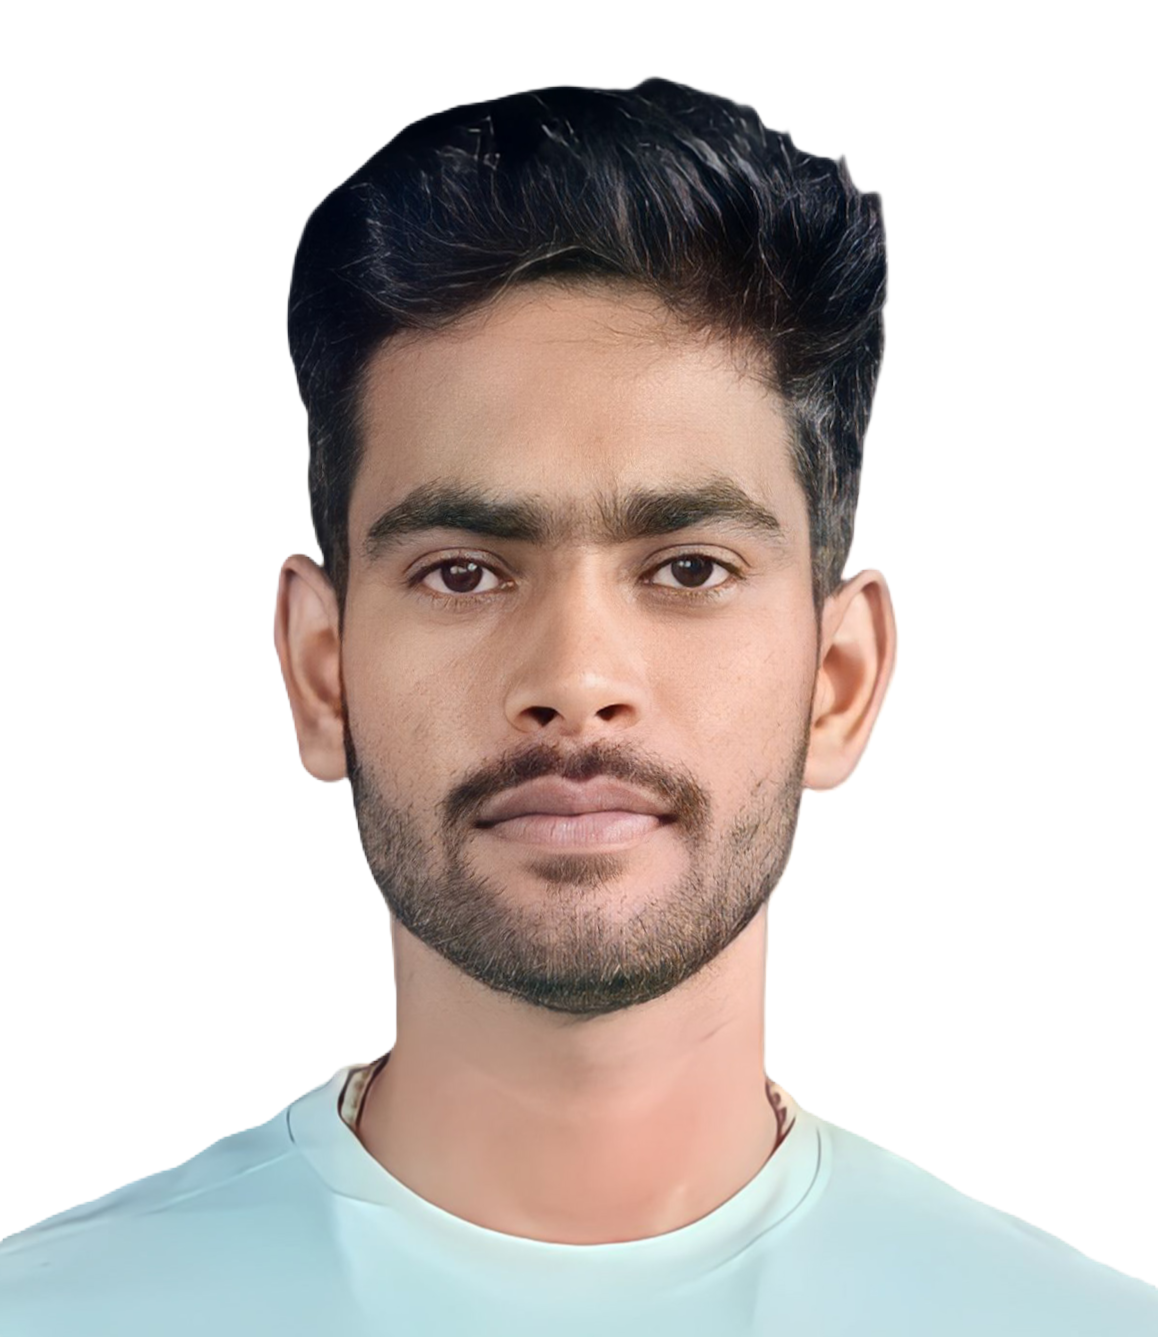
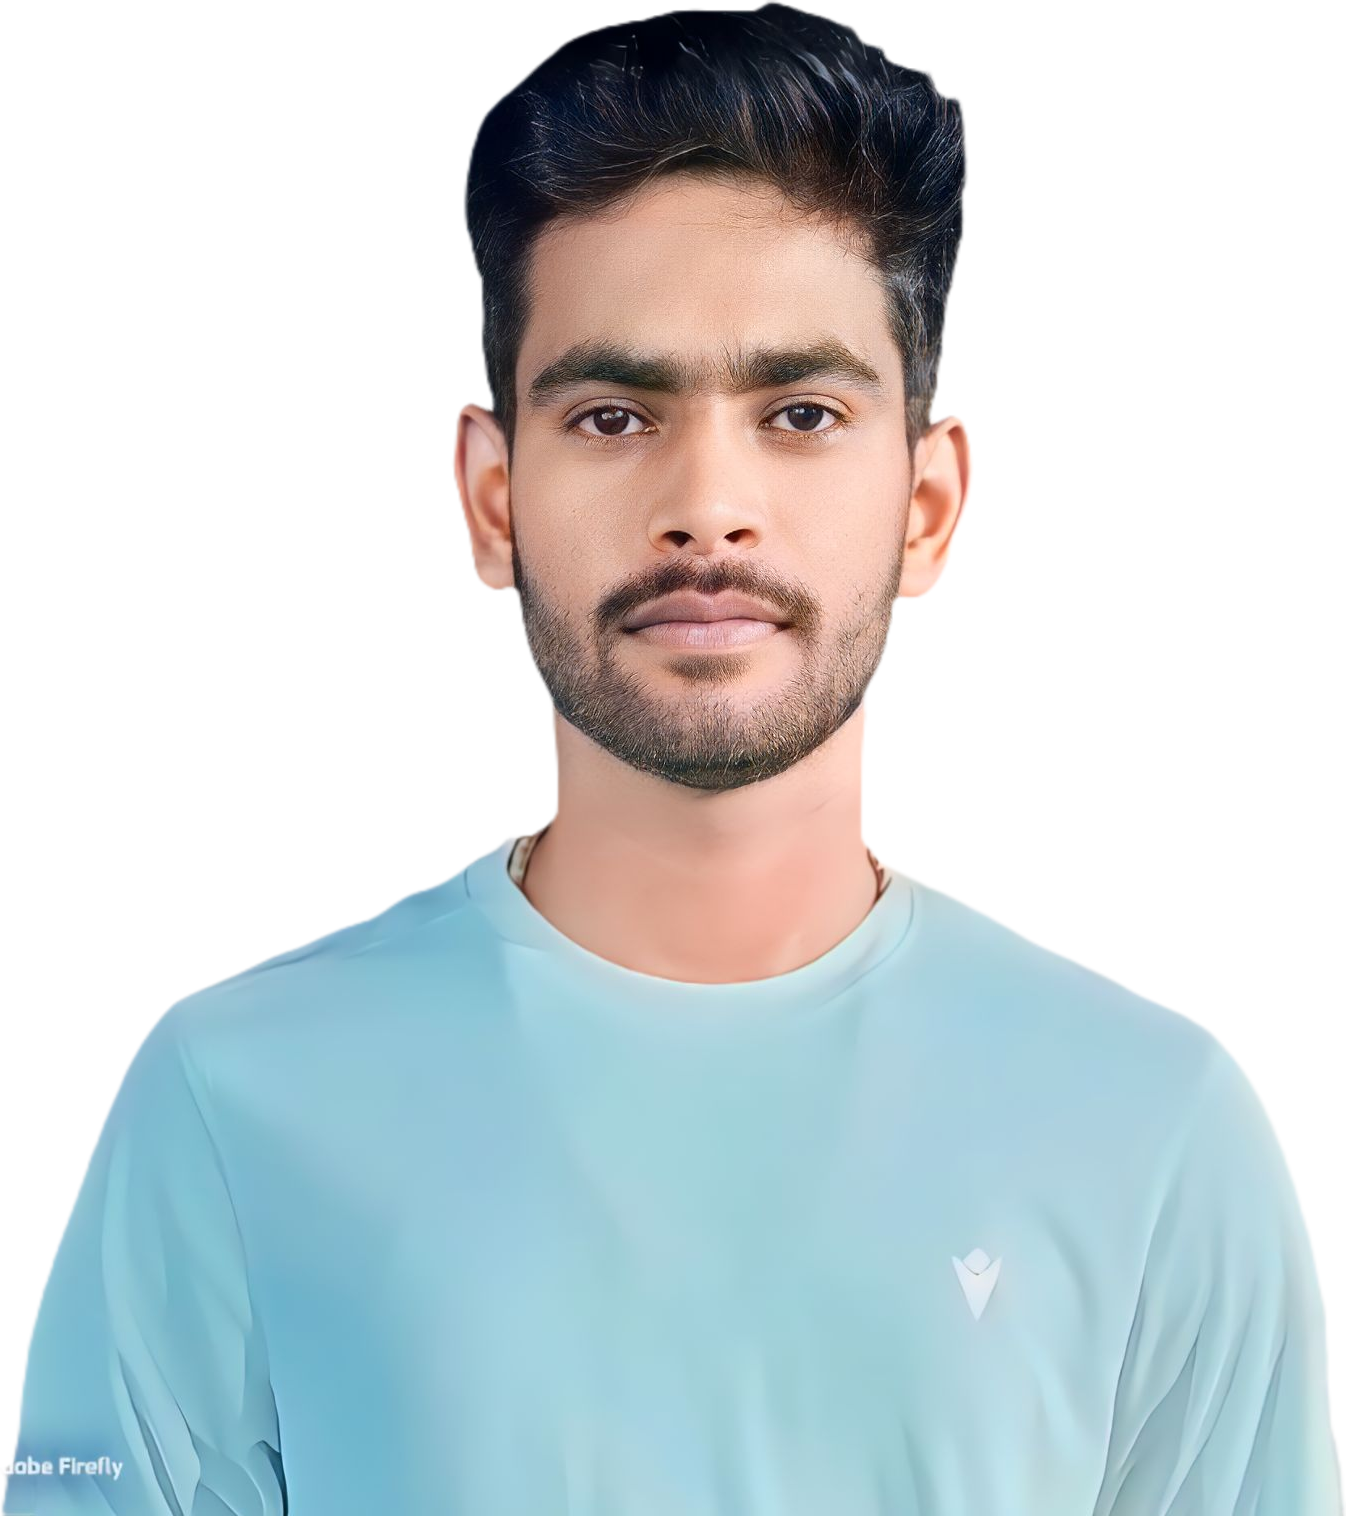
1.2.2

diff --git a/index.html b/index.html
@@ -49,6 +49,8 @@
               <button>Resume <i class="ri-file-download-line"></i></button>
             </a>
           </div>
+          <div class="img-box">
+            <img src="asset/Abhi.png" alt=""></div>
           <div class="socials">
             <div class="line"></div>
             <a href="https://www.linkedin.com/in/abhishek-g-996b40217/" aria-label="LinkedIn Profile">
@@ -142,49 +144,10 @@
       </section>
       <section class="portfolio" id="portfolio">
         <h1>Portfolio</h1>
-        <div class="portfolio-cards">
+        <div class="portfolio-cards">        
+          
           <div class="portfolio-card reveal">
-            <img src="asset/project1.png" alt="Project 1 Screenshot" />
-            <div class="overlay">
-              <h3>Portfolio</h3>
-              <p>Don't Need to go anywhere you are already here!</p>
-              <a href="Github" target="_blank" aria-label="View GitHub Repository">
-                Github <i class="ri-arrow-right-line"></i>
-              </a>
-            </div>
-          </div>
-          <div class="portfolio-card reveal">
-            <img src="asset/project2.png" alt="Image Upscaler AI Screenshot" />
-            <div class="overlay">
-              <h3>Image Upscaler AI</h3>
-              <p>Don't Need to go anywhere you are already here!</p>
-              <div class="link-box">
-                <a href="https://github.com/Abhishekgupta0703/Image-Upscaler" target="_blank" aria-label="View GitHub Repository">
-                  Github <i class="ri-arrow-right-line"></i>
-                </a>
-                <a href="https://github.com/Abhishekgupta0703/Image-Upscaler" target="_blank" aria-label="View Live Project">
-                  Live <i class="ri-arrow-right-line"></i>
-                </a>
-              </div>
-            </div>
-          </div>
-          <div class="portfolio-card reveal">
-            <img src="asset/project3.png" alt="Reel Downloader Screenshot" />
-            <div class="overlay">
-              <h3>Reel Downloader</h3>
-              <p>With this tool the Instagram videos can get downloaded</p>
-              <div class="link-box">
-                <a href="https://github.com/Abhishekgupta0703/Instagram-Reel-Downloader" target="_blank" aria-label="View GitHub Repository">
-                  Github <i class="ri-arrow-right-line"></i>
-                </a>
-                <a href="https://abhishekgupta0703.github.io/Instagram-Reel-Downloader/" target="_blank" aria-label="View Live Project">
-                  Live <i class="ri-arrow-right-line"></i>
-                </a>
-              </div>
-            </div>
-          </div>
-          <div class="portfolio-card reveal">
-            <img src="asset/project4.png" alt="X-Cleaner Screenshot" />
+            <img src="asset/x-cleaner.jpeg" alt="X-Cleaner Screenshot" />
             <div class="overlay">
               <h3>X-Cleaner</h3>
               <p>This is a Product portfolio website</p>
@@ -199,7 +162,7 @@
             </div>
           </div>
           <div class="portfolio-card reveal">
-            <img src="asset/project5.png" alt="TheLeadingNavigators Screenshot" />
+            <img src="asset/tln.jpeg" alt="TheLeadingNavigators Screenshot" />
             <div class="overlay">
               <h3>TheLeadingNavigators</h3>
               <p>This website refers to a business portfolio</p>
@@ -243,7 +206,7 @@
             <h2>Crypto Market Trends Analysis</h2>
             <p class="post-date">May 28, 2023</p>
             <p class="post-excerpt">Breaking down the latest trends in cryptocurrency markets and what they mean for investors...</p>
-            <a href="#" class="read-more">Read More <i class="ri-arrow-right-line"></i></a>
+            <a href="./blog-post.html" class="read-more">Read More <i class="ri-arrow-right-line"></i></a>
           </div>
           <div class="blog-post reveal">
             <h2>Blockchain for Beginners</h2>

diff --git a/style.css b/style.css
@@ -161,8 +161,7 @@ section {
 
 .header {
   padding: 20px 0 0;
-  /* background-image: url(asset/model_bw.png); */
-  background-image: url(asset/Hero.png);
+  /* background-image: url(asset/Hero.png); */
   background-position: 230px;
   background-size: cover;
   background-repeat: no-repeat;
@@ -180,6 +179,7 @@ section {
 
 .landing .intro {
   display: flex;
+  flex:0 1 40%;
   justify-content: center;
   flex-direction: column;
 }
@@ -188,7 +188,6 @@ section {
   color: #fbfbfb;
   font-weight: 400;
   font-size: 32px;
-  /* margin-left: 10vw; */
 }
 
 .landing .intro h3 span {
@@ -213,13 +212,18 @@ section {
   background-color: #fec86a;
   color: #34353b;
 }
-
+.landing .img-box{
+  flex: 0 0 45%;
+}
+.img-box img{
+  width: 100%;
+}
 .socials {
   display: flex;
   flex-direction: column;
   gap: 10px;
   align-items: center;
-  margin: 30% 10px 20px 0;
+  margin: 10% 10px 20px 0;
 }
 .socials a {
   text-decoration: none;
@@ -369,7 +373,7 @@ section {
 .portfolio-card {
   margin: auto;
   position: relative;
-  height: 200px;
+  height: 400px;
   width: 300px;
   background-color: var(--secondary-bg);
   border-radius: 20px;
@@ -384,9 +388,9 @@ section {
 }
 
 .portfolio-card img {
-  position: relative;
+  position:relative;
   width: 300px;
-  height: 200px;
+  height: 400px;
   object-fit: cover;
 }
 
@@ -398,7 +402,7 @@ section {
   display: flex;
   flex-direction: column;
   gap: 2.5vh;
-  height: 140px;
+  height: 220px;
   width: 301px;
   background-color: #34353ba2;
   align-items: center;
@@ -422,6 +426,7 @@ section {
 
 .portfolio-card .overlay a {
   text-decoration: none;
+  margin: 3px;
   padding: 10px 25px;
   background-color: #fec86a;
   border-radius: 8px;
@@ -435,7 +440,7 @@ section {
 .overlay:hover {
   top: 70%;
   left: 50%;
-  transform: translate(-50%, -50%);
+  transform: translate(-50%, -40%);
 }
 @keyframes fadeIn {
   from { opacity: 0; transform: translateY(20px); }
